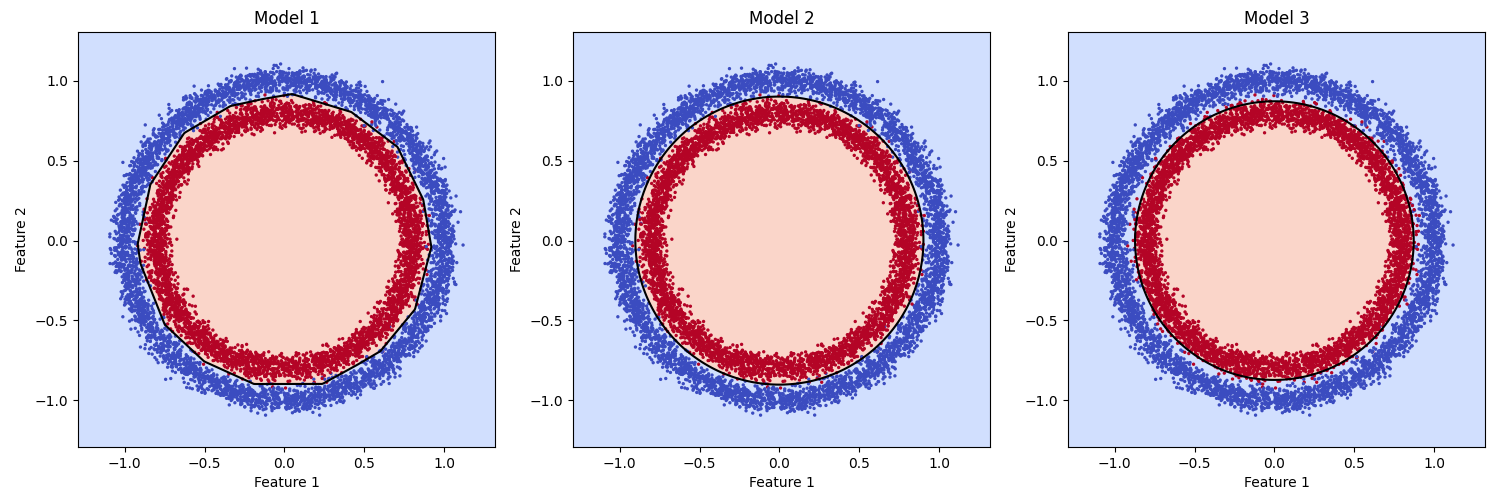
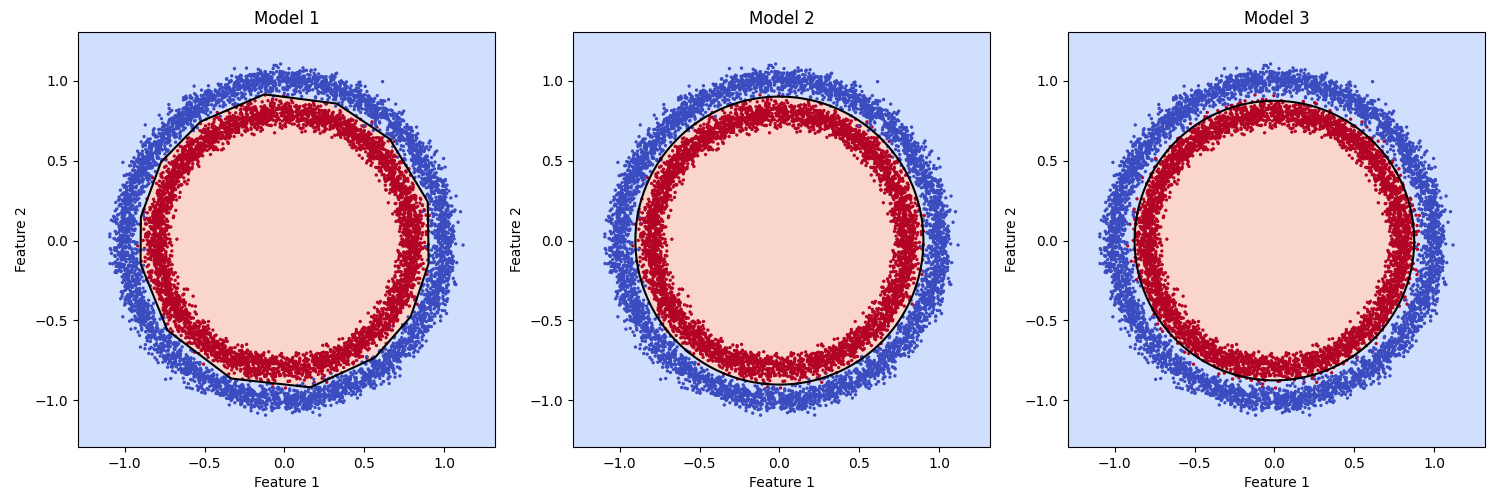
Made experiment 2 a little more reliable and made some better plots

diff --git a/experiments/sample_efficiency.py b/experiments/sample_efficiency.py
@@ -12,46 +12,72 @@ from models.baseline_mlp import BaselineMLP
 from models.radial_logistic import RadialLogisticRegression
 from models.radial_mlp import RadialMLP
 
+seeds = [67, 0, 20, 30, 123, 456, 789, 2026, 12, 42]
+all_results = []
+
 
 def sample_Efficiency_Sequential(device):
-    ### Reproducebility
-    np.random.seed(42)
-    torch.manual_seed(42)
+    """
+    This is a function
+    """
+    Reliability_Avg = []
+    for index, seed in enumerate(seeds, start=1):
+        print(f"Seed_Nr: {index}, Seed: {seed}")
+
+        ### Reproducebility
+        np.random.seed(seed)
+        torch.manual_seed(seed)
 
 
-    ## Making Data
-    X, y = make_circles(n_samples=50000, noise=0.04, random_state=42)
+        ## Making Data
+        X, y = make_circles(n_samples=50000, noise=0.04, random_state=seed)
 
-    ### Numpy -> Tensor
-    X = torch.from_numpy(X).type(torch.float)
-    y = torch.from_numpy(y).type(torch.float)
+        ### Numpy -> Tensor
+        X = torch.from_numpy(X).type(torch.float)
+        y = torch.from_numpy(y).type(torch.float)
 
-    ### 80/20 Training Split
-    X_train, X_test, y_train, y_test = train_test_split(X, y, test_size=0.20, random_state=42, shuffle=True)
+        ### 80/20 Training Split
+        X_train, X_test, y_train, y_test = train_test_split(X, y, test_size=0.20, random_state=42, shuffle=True)
 
-    data_set_sizes = [20, 50, 100, 250, 500, 1000, 2500, 10000]
+        data_set_sizes = [20, 50, 100, 250, 500, 1000, 2500, 10000]
 
-    result = {
+        result = {
+            "ModelA": [],
+            "ModelB": [],
+            "ModelC": []
+        }
+
+        for index, size in enumerate(data_set_sizes, start=1):
+            print(f"    Dataset_Nr: {index}, Dataset Size: {size}")
+            X_sample = X_train[:size]
+            y_sample = y_train[:size]
+
+            # Init Fresh models with fresh weights and biases
+            model = {
+                "ModelA": BaselineMLP().to(device=device),
+                "ModelB": RadialMLP().to(device=device),
+                "ModelC": RadialLogisticRegression().to(device=device)
+            }
+
+            for name, model in model.items():
+                training_result = train_loop(model=model, X_train=X_sample, y_train=y_sample, X_test=X_test, y_test=y_test, device=device)
+                result[name].append(training_result["test_accuracy"][-1])
+        Reliability_Avg.append(result)
+        all_results.append(result)
+    average = {
         "ModelA": [],
         "ModelB": [],
         "ModelC": []
     }
+    for name in average:
+        for i in range(len(data_set_sizes)):
+            total = 0
+            for run in Reliability_Avg:
+                total += run[name][i]
+            average[name].append(total / len(Reliability_Avg))
+    print("Experiment 2 done!")
+    return data_set_sizes, average, result
         
-    for size in data_set_sizes:
-        X_sample = X_train[:size]
-        y_sample = y_train[:size]
-
-        model = {
-            "ModelA": BaselineMLP(),
-            "ModelB": RadialMLP(),
-            "ModelC": RadialLogisticRegression()
-        }
-
-        for name, model in model.items():
-            training_result = train_loop(model=model, X_train=X_sample, y_train=y_sample, X_test=X_test, y_test=y_test, device=device)
-            result[name].append(training_result["test_accuracy"][-1])
-    return data_set_sizes, result
-    
 
 def sample_Efficiency_Paralell():
     """

diff --git a/experiments/plotting.py b/experiments/plotting.py
@@ -98,10 +98,10 @@ def DecisionBoundaries(X, y, *models):
 
     plt.tight_layout()
     plt.savefig("plots/DecisionBoundaries.png")
-    plt.show()
+    #plt.show()
     
     
-def SampleEfficiencyPlot(dataset_sizes, results):
+def SampleEfficiencyPlot(dataset_sizes, results, filename="SampleEfficiency_With_10Seeds"):
 
     fig, ax = plt.subplots(figsize=(10, 6))
 
@@ -113,7 +113,10 @@ def SampleEfficiencyPlot(dataset_sizes, results):
             label=name
         )
 
-    ax.set_title("Sample Efficiency Comparison")
+    if filename == "SampleEfficiency_With_10Seeds":
+        ax.set_title("Average Sample Efficiency Comparison (Iterated over 10 diffrent seeds)")
+    else:
+        ax.set_title("Sample Efficiency Comparison (Iterated over Seed 42)")
     ax.set_xlabel("Number of Training Examples")
     ax.set_ylabel("Test Accuracy (%)")
 
@@ -126,6 +129,6 @@ def SampleEfficiencyPlot(dataset_sizes, results):
     plt.tight_layout()
 
     ### Save plot
-    plt.savefig( "plots/SampleEfficiency.png")
+    plt.savefig( f"plots/{filename}.png")
 
-    plt.show()
+    #plt.show()

diff --git a/experiments/compare_models.py b/experiments/compare_models.py
@@ -39,12 +39,16 @@ X_train, X_test, y_train, y_test = train_test_split(X, y, test_size=0.20, random
 
 def ReserchLoopSequential(device):
     final = []
+    print(f"Running MODELA")
     resultA = train_loop(model=ModelA, X_train=X_train, y_train=y_train, X_test=X_test, y_test=y_test, device=device, epochs=20)
     final.append(resultA)
+    print(f"Runnign MODELB")
     resultB = train_loop(model=ModelB, X_train=X_train, y_train=y_train, X_test=X_test, y_test=y_test, device=device, epochs=20)
     final.append(resultB)
+    print(f"Runnign MODELC")
     resultC = train_loop(model=ModelC, X_train=X_train, y_train=y_train, X_test=X_test, y_test=y_test, device=device, epochs=20)
     final.append(resultC)
+    print("Experemnet 1 done...")
 
     return final, X_test, y_test, X
 

diff --git a/main.py b/main.py
@@ -35,3 +35,4 @@ CirclePlot(X)
 ## 2
 result2 = sample_Efficiency_Sequential(device=device)
 SampleEfficiencyPlot(result2[0], result2[1])
+SampleEfficiencyPlot(result2[0], result2[2],filename="SampleEfficiencySeed42")
